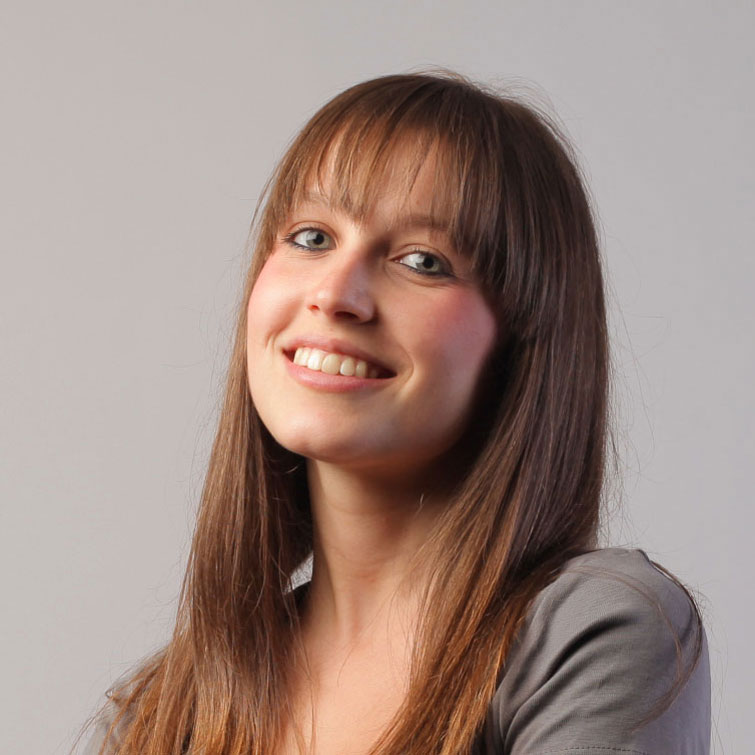
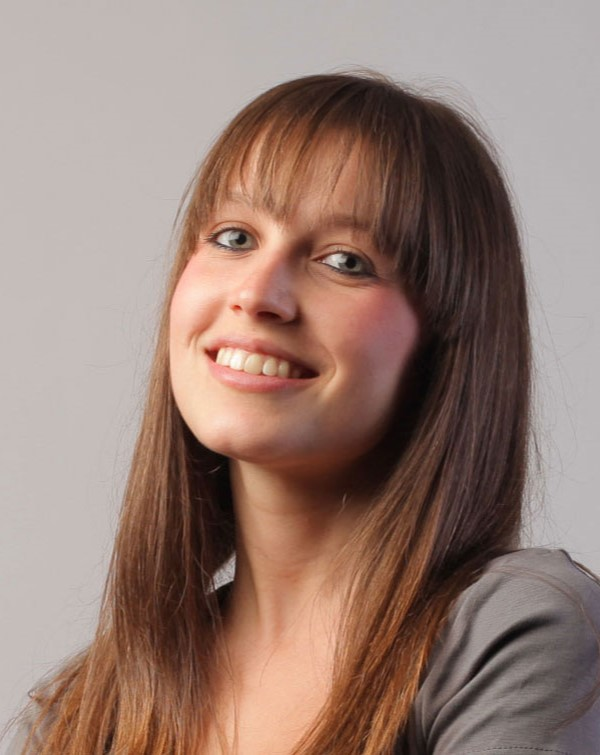
fix bug in our work

diff --git a/index.html b/index.html
@@ -173,7 +173,7 @@
         </p>
         <div class="team">
           <div class="member">
-            <img src="./images/team_members/team_member-1.jfif" alt="">
+            <img src="./images/team_members/team_member-1.jpg" alt="">
             <div class="member-info">
               <h4>John</h4>
               <span>CEO/Founder</span>

diff --git a/styles/css/main.css b/styles/css/main.css
@@ -325,6 +325,7 @@ article>p {
   100% {
     opacity: 0;
     width: 0px;
+    height: 0px;
   }
 }
 
